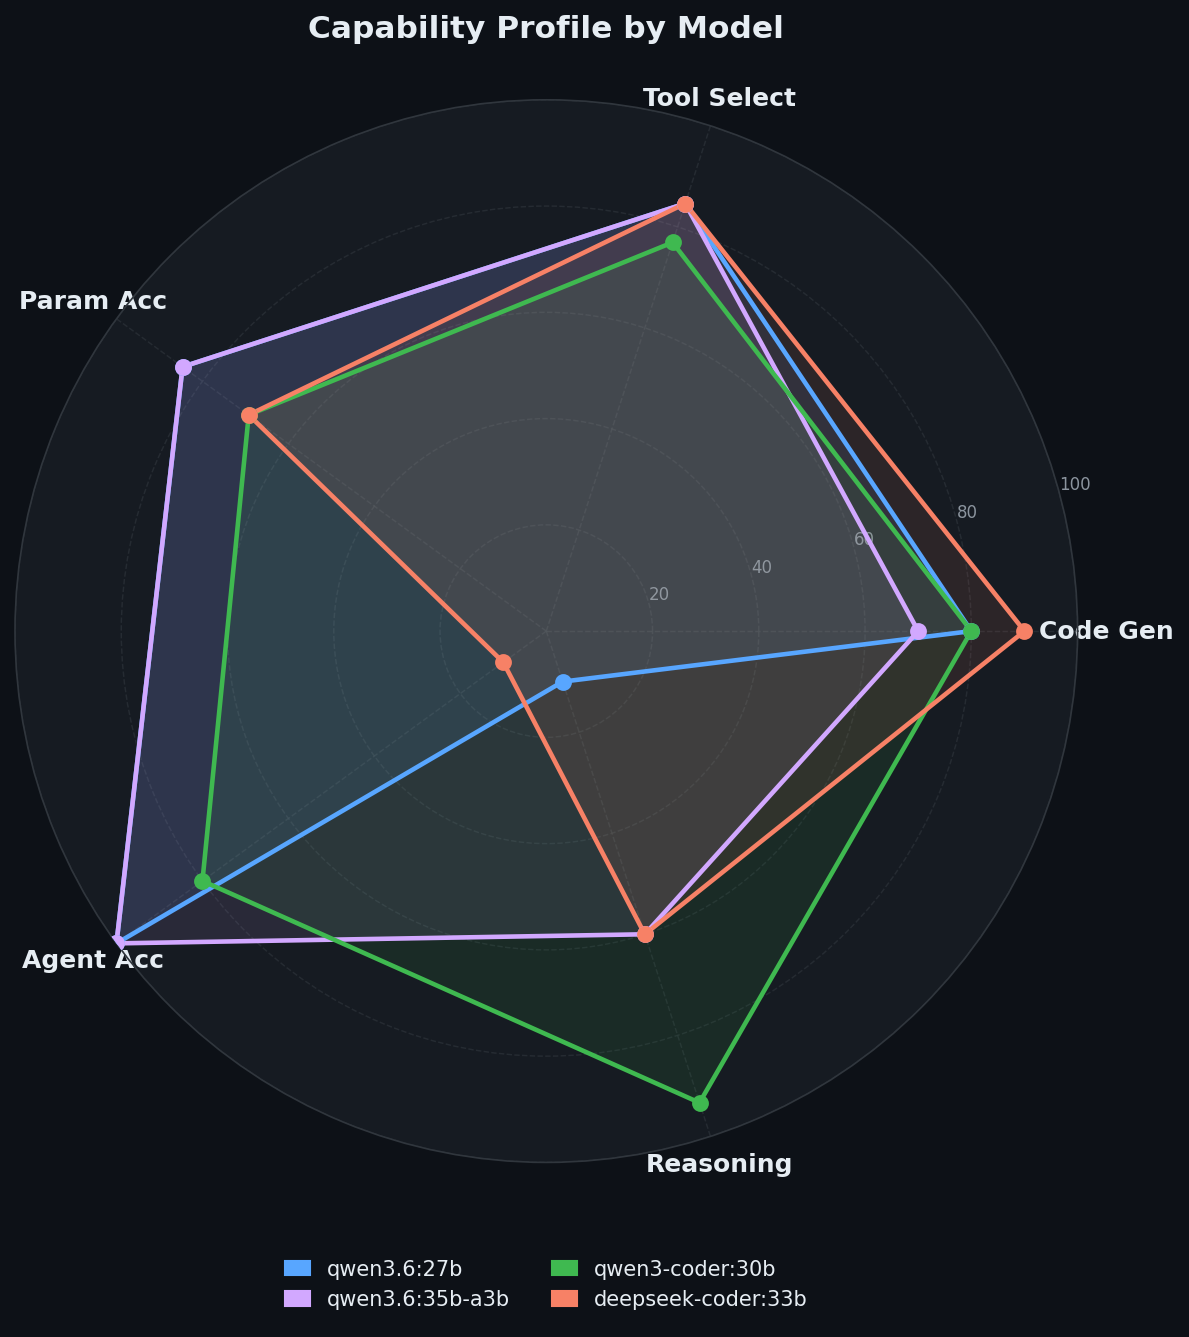
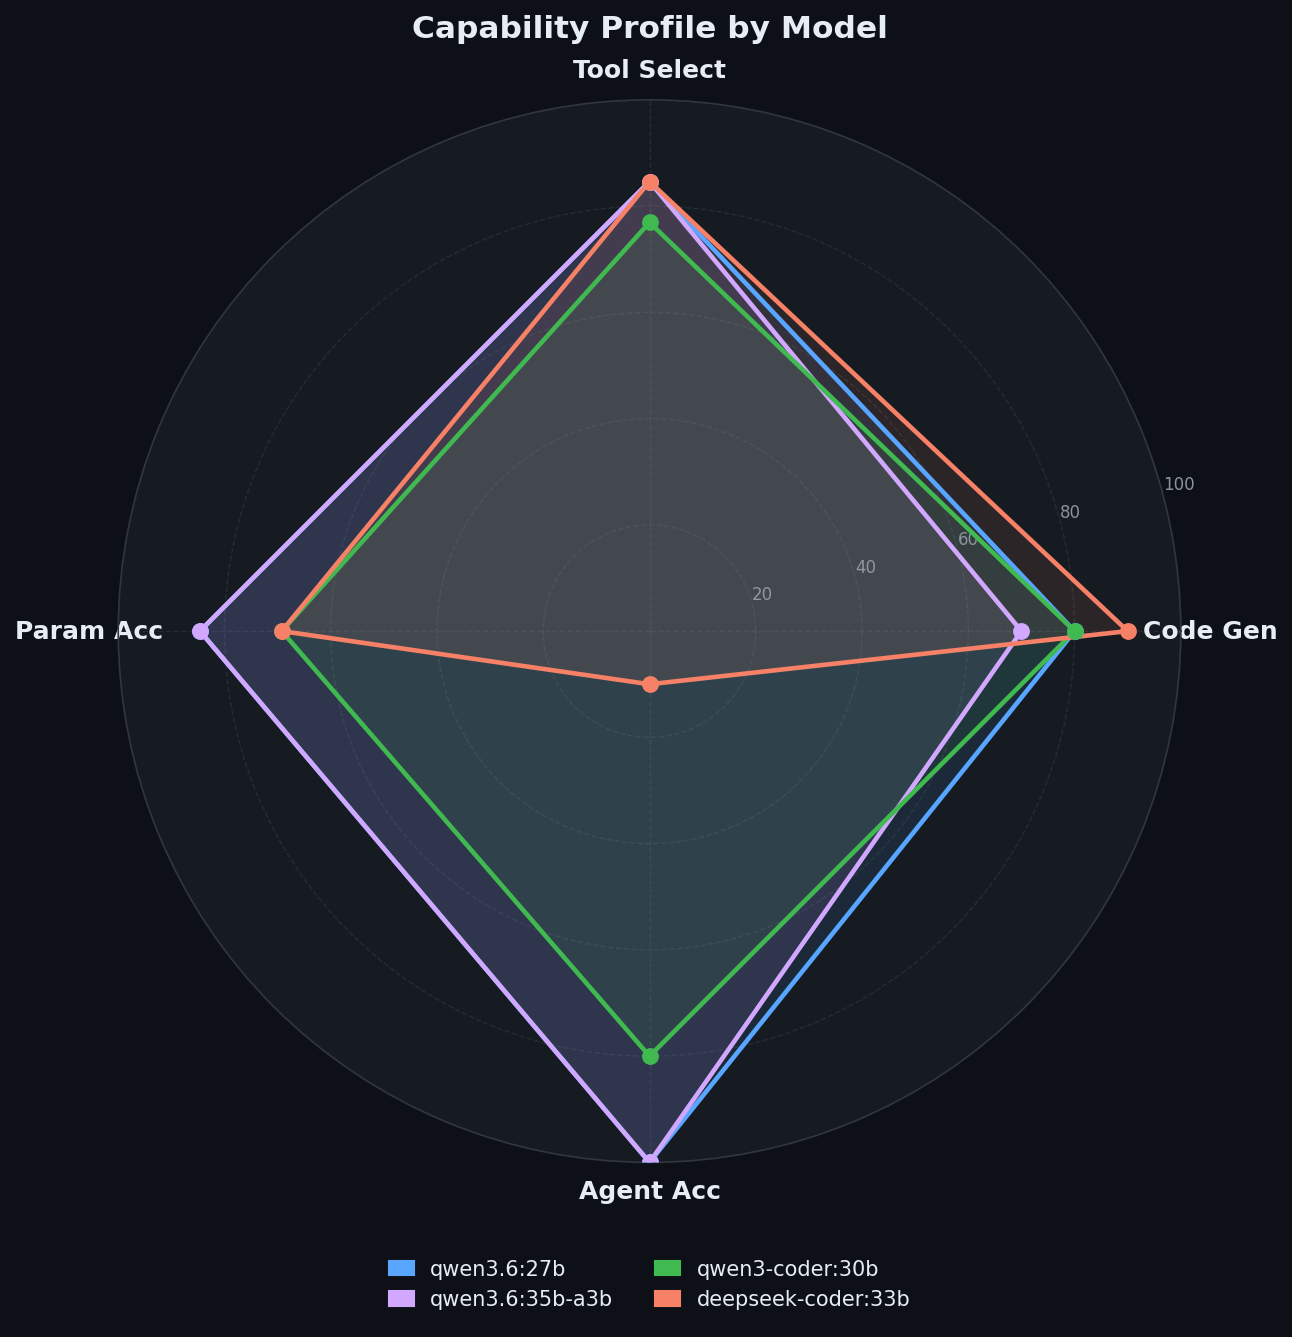
Remove Reasoning Transparency row from recommendation grid chart, regenerate all charts

diff --git a/generate_visuals.py b/generate_visuals.py
@@ -40,7 +40,6 @@ data = {
     "Tool Selection (%)":   [84.62, 84.62, 76.92, 84.62],
     "Param Accuracy (%)":   [84.62, 84.62, 69.23, 69.23],
     "Agent Accuracy (%)":   [100,   100,   80,    10   ],
-    "Reasoning Score (/3)": [0.3,   1.8,   2.8,   1.8  ],
 }
 
 # ── Shared style helpers ──────────────────────────────────────────────────────
@@ -128,8 +127,7 @@ def chart_grouped_bars():
 # Chart 2 — Radar / spider chart
 # ═══════════════════════════════════════════════════════════════════════════════
 def chart_radar():
-    categories = ["Code Gen", "Tool Select", "Param Acc", "Agent Acc", "Reasoning"]
-    # Normalise all to 0-100 (reasoning /3 → ×33.33)
+    categories = ["Code Gen", "Tool Select", "Param Acc", "Agent Acc"]
     norm_data = []
     for i in range(len(MODELS)):
         norm_data.append([
@@ -137,7 +135,6 @@ def chart_radar():
             data["Tool Selection (%)"][i],
             data["Param Accuracy (%)"][i],
             data["Agent Accuracy (%)"][i],
-            data["Reasoning Score (/3)"][i] / 3 * 100,
         ])
 
     N      = len(categories)
@@ -233,7 +230,6 @@ def chart_recommendation_grid():
     use_cases = [
         "Coding Agent\n(tools + planning)",
         "Pure Code\nGeneration",
-        "Reasoning\nTransparency",
         "Balanced\nAll-Round",
         "CPU Speed\n(MoE efficiency)",
     ]
@@ -243,7 +239,6 @@ def chart_recommendation_grid():
         # qwen3.6:27b  qwen3.6:35b-a3b  qwen3-coder:30b  deepseek-coder:33b
         [3,            3,                2,                0],   # Coding Agent
         [2,            1,                2,                3],   # Pure Code Gen
-        [1,            2,                3,                2],   # Reasoning Transparency
         [3,            2,                3,                1],   # Balanced All-Round
         [1,            3,                2,                1],   # CPU Speed
     ])
@@ -251,7 +246,6 @@ def chart_recommendation_grid():
     labels = np.array([
         ["Best",  "Best", "Good", "Poor"],
         ["Good",  "OK",   "Good", "Best"],
-        ["OK",    "Good", "Best", "Good"],
         ["Best",  "Good", "Best", "OK"  ],
         ["OK",    "Best", "Good", "OK"  ],
     ])
